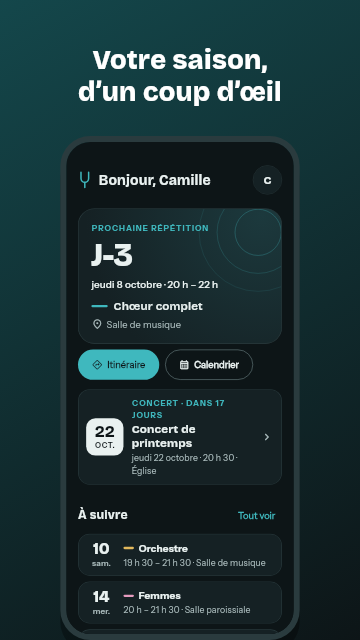
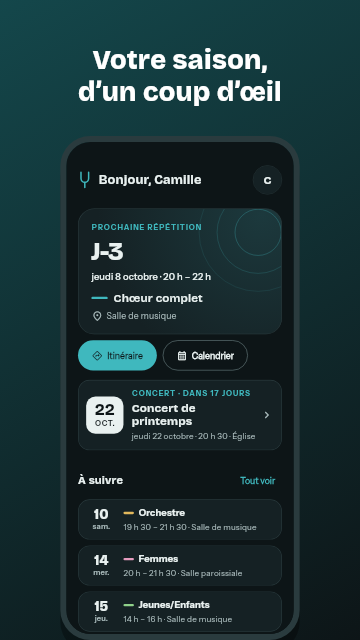
fix(mobile): pin the website address in store builds and calm the type scale
Partitions in the Android release could not reach the website's Drive
API (no /api/drive/files request reached production from the app after
it read drive_folders). The address came from the SITE_URL_PROD secret;
it is now the public production URL, set in the workflow, and siteUrl
drops trailing slashes.

Text sizes: no more +1 pt on every small size, a theme scale closer to
Material's (body 17/15/13, headlines 26/23/20), and the biggest titles
and the home countdown brought down. Store screenshots re-rendered.

Claude-Session: https://claude.ai/code/session_01X6nRWWaETQq1G1bw7aGauS

Changed region(s): [[0.2139, 0.3438, 0.7639, 0.9688], [0.275, 0.25, 0.5806, 0.3125]]

diff --git a/apps/mobile_app/lib/features/rehearsals/presentation/screens/rehearsals_screen.dart b/apps/mobile_app/lib/features/rehearsals/presentation/screens/rehearsals_screen.dart
@@ -268,7 +268,7 @@ class _RehearsalsHeader extends StatelessWidget {
                 child: Text(
                   'Répétitions',
                   style: AppFonts.display(
-                    fontSize: 34,
+                    fontSize: 28,
                     fontWeight: FontWeight.w800,
                     color: s.onSurface,
                     height: 1.1,
@@ -415,7 +415,7 @@ class _MonthHeader extends StatelessWidget {
             child: Text(
               title,
               style: AppFonts.display(
-                fontSize: 21,
+                fontSize: 19,
                 fontWeight: FontWeight.w700,
                 color: s.onSurface,
               ),
@@ -534,7 +534,7 @@ class _RehearsalCard extends StatelessWidget {
                   Text(
                     '${date.day}',
                     style: AppFonts.display(
-                      fontSize: 30,
+                      fontSize: 26,
                       fontWeight: FontWeight.w800,
                       color: s.onSurface,
                       height: 1.05,
@@ -680,7 +680,7 @@ class _EmptyState extends StatelessWidget {
                 isFilterActive ? 'Aucun résultat' : 'Aucune répétition',
                 textAlign: TextAlign.center,
                 style: AppFonts.display(
-                  fontSize: 21,
+                  fontSize: 19,
                   fontWeight: FontWeight.w700,
                   color: s.onSurface,
                 ),
@@ -724,7 +724,7 @@ class _ErrorState extends StatelessWidget {
                     : 'Vous êtes hors ligne',
                 textAlign: TextAlign.center,
                 style: AppFonts.display(
-                  fontSize: 21,
+                  fontSize: 19,
                   fontWeight: FontWeight.w700,
                   color: s.onSurface,
                 ),

diff --git a/apps/mobile_app/lib/core/theme/app_theme.dart b/apps/mobile_app/lib/core/theme/app_theme.dart
@@ -135,20 +135,20 @@ class AppTheme {
       color: c ?? s.onSurface,
     ).copyWith(fontSize: size, fontWeight: w);
     return TextTheme(
-      displayLarge: d(48, FontWeight.w800),
-      displayMedium: d(40, FontWeight.w800),
-      displaySmall: d(34, FontWeight.w800),
-      headlineLarge: d(30),
-      headlineMedium: d(26),
-      headlineSmall: d(22),
-      titleLarge: d(20, FontWeight.w600),
-      titleMedium: t(18, FontWeight.w600),
-      titleSmall: t(16, FontWeight.w600),
-      bodyLarge: t(18, FontWeight.w400),
-      bodyMedium: t(16, FontWeight.w400),
-      bodySmall: t(14, FontWeight.w400, s.onSurfaceVariant),
-      labelLarge: t(16, FontWeight.w700),
-      labelMedium: t(14, FontWeight.w600),
+      displayLarge: d(40, FontWeight.w800),
+      displayMedium: d(34, FontWeight.w800),
+      displaySmall: d(28, FontWeight.w800),
+      headlineLarge: d(26),
+      headlineMedium: d(23),
+      headlineSmall: d(20),
+      titleLarge: d(19, FontWeight.w600),
+      titleMedium: t(17, FontWeight.w600),
+      titleSmall: t(15, FontWeight.w600),
+      bodyLarge: t(17, FontWeight.w400),
+      bodyMedium: t(15, FontWeight.w400),
+      bodySmall: t(13, FontWeight.w400, s.onSurfaceVariant),
+      labelLarge: t(15, FontWeight.w700),
+      labelMedium: t(13, FontWeight.w600),
       labelSmall: t(13, FontWeight.w600),
     );
   }
@@ -182,7 +182,7 @@ class AppTheme {
         surfaceTintColor: Colors.transparent,
         centerTitle: false,
         titleTextStyle: AppFonts.display(
-          fontSize: 24,
+          fontSize: 21,
           fontWeight: FontWeight.w700,
           color: s.onSurface,
         ),

diff --git a/apps/mobile_app/lib/core/theme/app_fonts.dart b/apps/mobile_app/lib/core/theme/app_fonts.dart
@@ -7,9 +7,10 @@ import 'package:google_fonts/google_fonts.dart';
 /// - Bricolage Grotesque for titles and big numbers.
 ///
 /// [sans] is a drop-in for the `GoogleFonts.poppins(...)` calls the screens
-/// used. Readability for older members comes first, so it nudges small sizes
-/// up (Instrument Sans is narrower than Poppins, so the same lines still fit)
-/// and switches bold text of 20 pt and more to the display face.
+/// used. It keeps the sizes the screens ask for (older members who want
+/// bigger text get it from the system text size, which the app follows),
+/// never renders under [minSize], and switches bold text of 20 pt and more
+/// to the display face.
 class AppFonts {
   AppFonts._();
 
@@ -66,11 +67,8 @@ class AppFonts {
     );
   }
 
-  /// Sizes the screens ask for, mapped to what the app renders: one point up
-  /// below 20 pt, never under [minSize].
-  static double readableSize(double requested) {
-    if (requested >= 20) return requested;
-    final bumped = requested + 1;
-    return bumped < minSize ? minSize : bumped;
-  }
+  /// Sizes the screens ask for, mapped to what the app renders: never under
+  /// [minSize].
+  static double readableSize(double requested) =>
+      requested < minSize ? minSize : requested;
 }

diff --git a/apps/mobile_app/lib/features/home/presentation/screens/home_screen.dart b/apps/mobile_app/lib/features/home/presentation/screens/home_screen.dart
@@ -103,7 +103,7 @@ class _WelcomeHeader extends ConsumerWidget {
             child: Text(
               firstName.isEmpty ? greeting : '$greeting, $firstName',
               style: AppFonts.display(
-                fontSize: 24,
+                fontSize: 22,
                 fontWeight: FontWeight.w700,
                 color: scheme.onSurface,
                 height: 1.15,
@@ -338,7 +338,7 @@ class _NextRehearsalHero extends StatelessWidget {
                     Text(
                       big,
                       style: AppFonts.display(
-                        fontSize: 56,
+                        fontSize: 44,
                         fontWeight: FontWeight.w800,
                         color: scheme.onSurface,
                         height: 1,
@@ -546,7 +546,7 @@ class _RehearsalRow extends StatelessWidget {
                 Text(
                   date != null ? '${date.day}' : '—',
                   style: AppFonts.display(
-                    fontSize: 28,
+                    fontSize: 24,
                     fontWeight: FontWeight.w800,
                     color: scheme.onSurface,
                     height: 1,

diff --git a/apps/mobile_app/lib/features/partitions/presentation/screens/partitions_screen.dart b/apps/mobile_app/lib/features/partitions/presentation/screens/partitions_screen.dart
@@ -477,7 +477,7 @@ class _PartitionsScreenState extends ConsumerState<PartitionsScreen> {
                 maxLines: 1,
                 overflow: TextOverflow.ellipsis,
                 style: AppFonts.display(
-                  fontSize: 30,
+                  fontSize: 26,
                   fontWeight: FontWeight.w800,
                   color: s.onSurface,
                 ),
@@ -632,7 +632,7 @@ class _PartitionsScreenState extends ConsumerState<PartitionsScreen> {
                     maxLines: 2,
                     overflow: TextOverflow.ellipsis,
                     style: AppFonts.display(
-                      fontSize: 22,
+                      fontSize: 20,
                       fontWeight: FontWeight.w700,
                       color: s.onSurface,
                     ),

diff --git a/apps/mobile_app/lib/features/concerts/presentation/screens/concert_detail_screen.dart b/apps/mobile_app/lib/features/concerts/presentation/screens/concert_detail_screen.dart
@@ -203,7 +203,7 @@ class _ConcertDetailHeader extends StatelessWidget {
                   style: AppFonts.sans(
                     color: Colors.white,
                     fontWeight: FontWeight.bold,
-                    fontSize: 28,
+                    fontSize: 24,
                     height: 1.2,
                   ),
                   maxLines: 3,
@@ -272,7 +272,7 @@ class _ConcertDetailHeader extends StatelessWidget {
                   style: AppFonts.sans(
                     color: theme.colorScheme.onSurface,
                     fontWeight: FontWeight.bold,
-                    fontSize: 28,
+                    fontSize: 24,
                     height: 1.2,
                   ),
                   maxLines: 3,

diff --git a/apps/mobile_app/lib/core/config/app_config.dart b/apps/mobile_app/lib/core/config/app_config.dart
@@ -18,10 +18,13 @@ class AppConfig {
 
   /// Base URL of the public website (e.g. https://www.lebontemperament.com).
   /// Used to build the client tracking link: $siteUrl/track/{deliveryId}?token=...
+  /// Never ends with a slash, so `$siteUrl/api/...` stays a valid path.
   static String get siteUrl {
-    return _env('SITE_URL') ??
+    final url =
+        _env('SITE_URL') ??
         _env('WEBSITE_URL') ??
         'https://www.lebontemperament.com';
+    return url.replaceAll(RegExp(r'/+$'), '');
   }
 
   /// Main Drive folder (Accès Drive). Override via DRIVE_FOLDER_MAIN.

diff --git a/apps/mobile_app/lib/features/splash/presentation/screens/splash_screen.dart b/apps/mobile_app/lib/features/splash/presentation/screens/splash_screen.dart
@@ -150,7 +150,7 @@ class _SplashScreenState extends ConsumerState<SplashScreen>
                       children: [
                         Text('Le Bon Tempérament',
                             style: AppFonts.sans(
-                              fontSize: 26,
+                              fontSize: 24,
                               fontWeight: FontWeight.bold,
                               color: theme.colorScheme.onSurface,
                             )),

diff --git a/apps/mobile_app/lib/features/events/presentation/screens/event_detail_screen.dart b/apps/mobile_app/lib/features/events/presentation/screens/event_detail_screen.dart
@@ -172,7 +172,7 @@ class _EventDetailHeader extends StatelessWidget {
                     style: AppFonts.sans(
                       color: theme.colorScheme.onSurface,
                       fontWeight: FontWeight.bold,
-                      fontSize: 28,
+                      fontSize: 24,
                       height: 1.2,
                     ),
                     maxLines: 3,

diff --git a/apps/mobile_app/lib/features/concerts/presentation/screens/concerts_events_screen.dart b/apps/mobile_app/lib/features/concerts/presentation/screens/concerts_events_screen.dart
@@ -508,7 +508,7 @@ class _ConcertCard extends StatelessWidget {
                       style: AppFonts.sans(
                         color: theme.colorScheme.onSurface,
                         fontWeight: FontWeight.bold,
-                        fontSize: 32,
+                        fontSize: 28,
                         height: 1.1,
                       ),
                     ),

diff --git a/apps/mobile_app/lib/core/widgets/coming_soon_screen.dart b/apps/mobile_app/lib/core/widgets/coming_soon_screen.dart
@@ -63,7 +63,7 @@ class ComingSoonScreen extends StatelessWidget {
                   Text(
                     title,
                     style: AppFonts.sans(
-                      fontSize: 22,
+                      fontSize: 20,
                       fontWeight: FontWeight.w600,
                       color: theme.colorScheme.onSurface,
                     ),

diff --git a/apps/mobile_app/lib/features/driver_tracking/presentation/screens/driver_tracking_screen.dart b/apps/mobile_app/lib/features/driver_tracking/presentation/screens/driver_tracking_screen.dart
@@ -484,7 +484,7 @@ class _TrackingStatusHero extends StatelessWidget {
           Text(
             state.isTracking ? 'Suivi Actif' : 'Suivi Arrêté',
             style: AppFonts.sans(
-              fontSize: 24,
+              fontSize: 22,
               fontWeight: FontWeight.bold,
               color: state.isTracking
                   ? Colors.white
